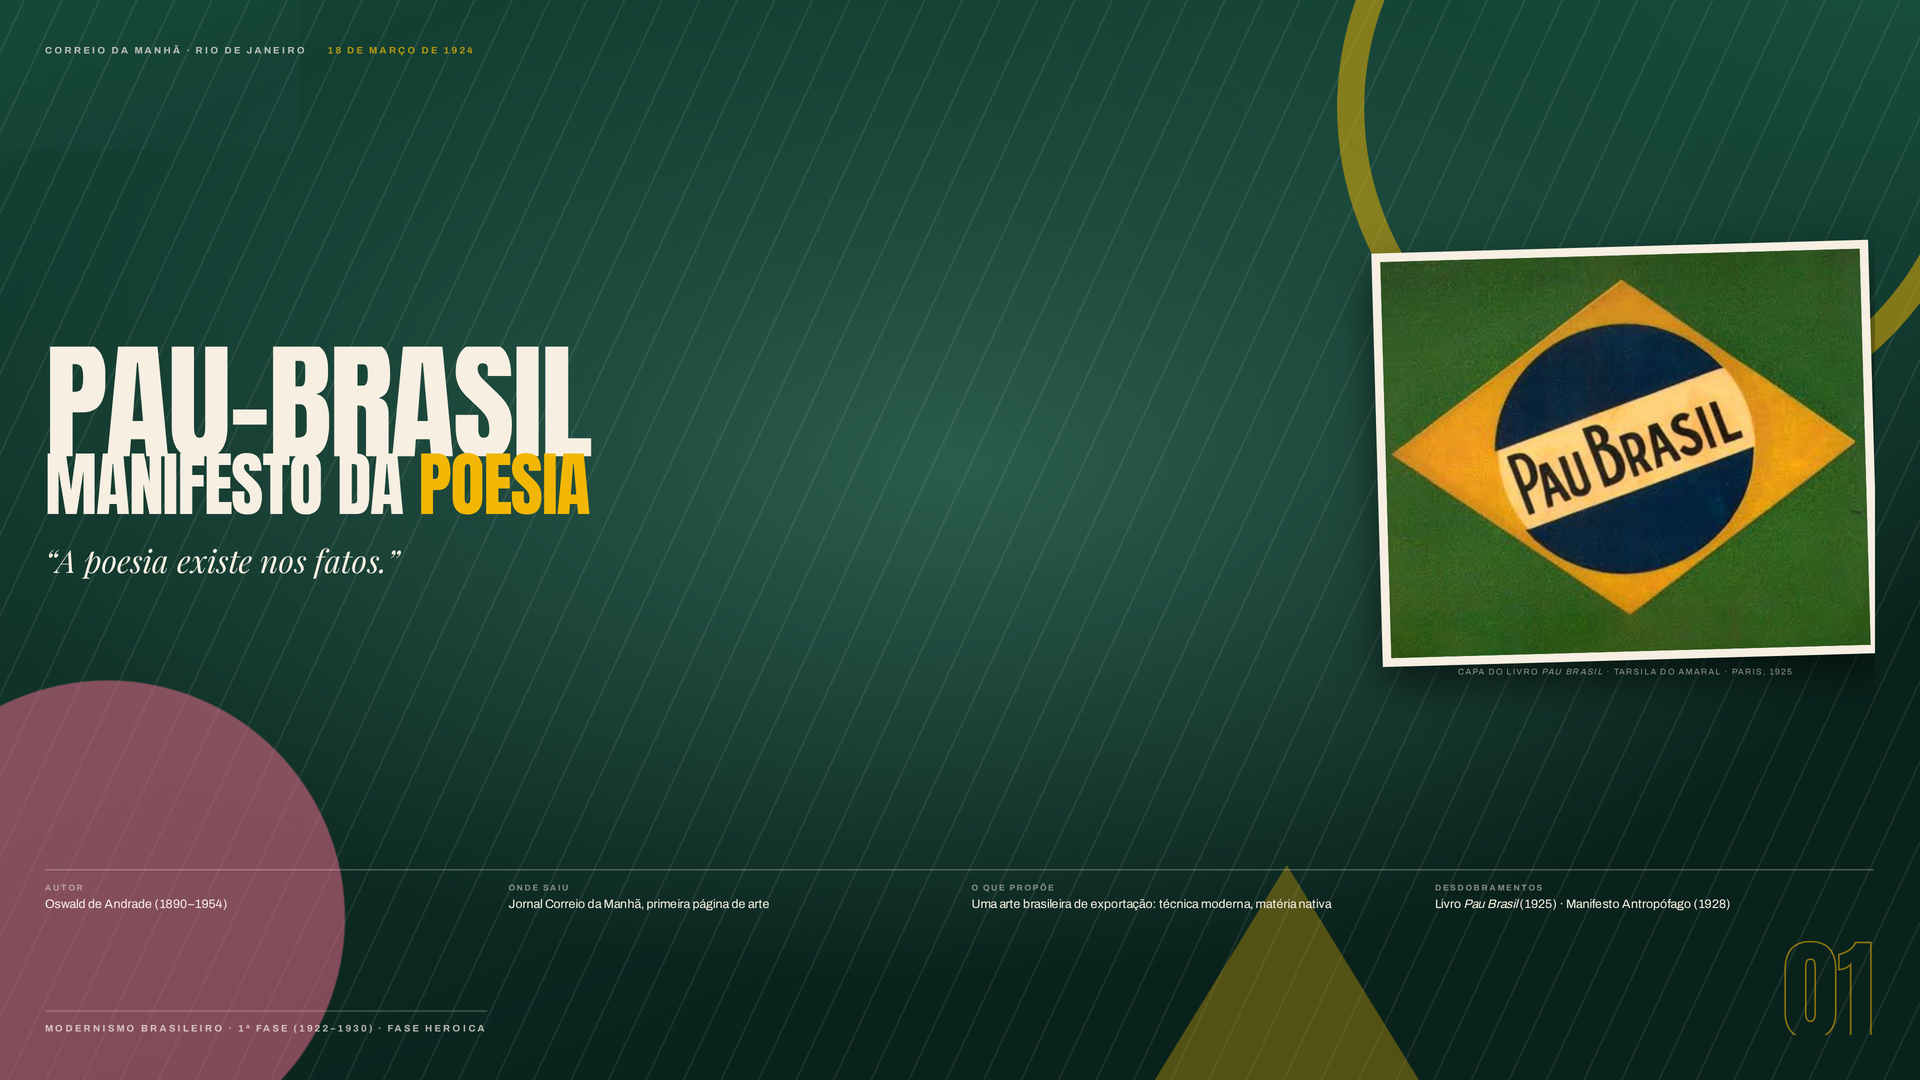
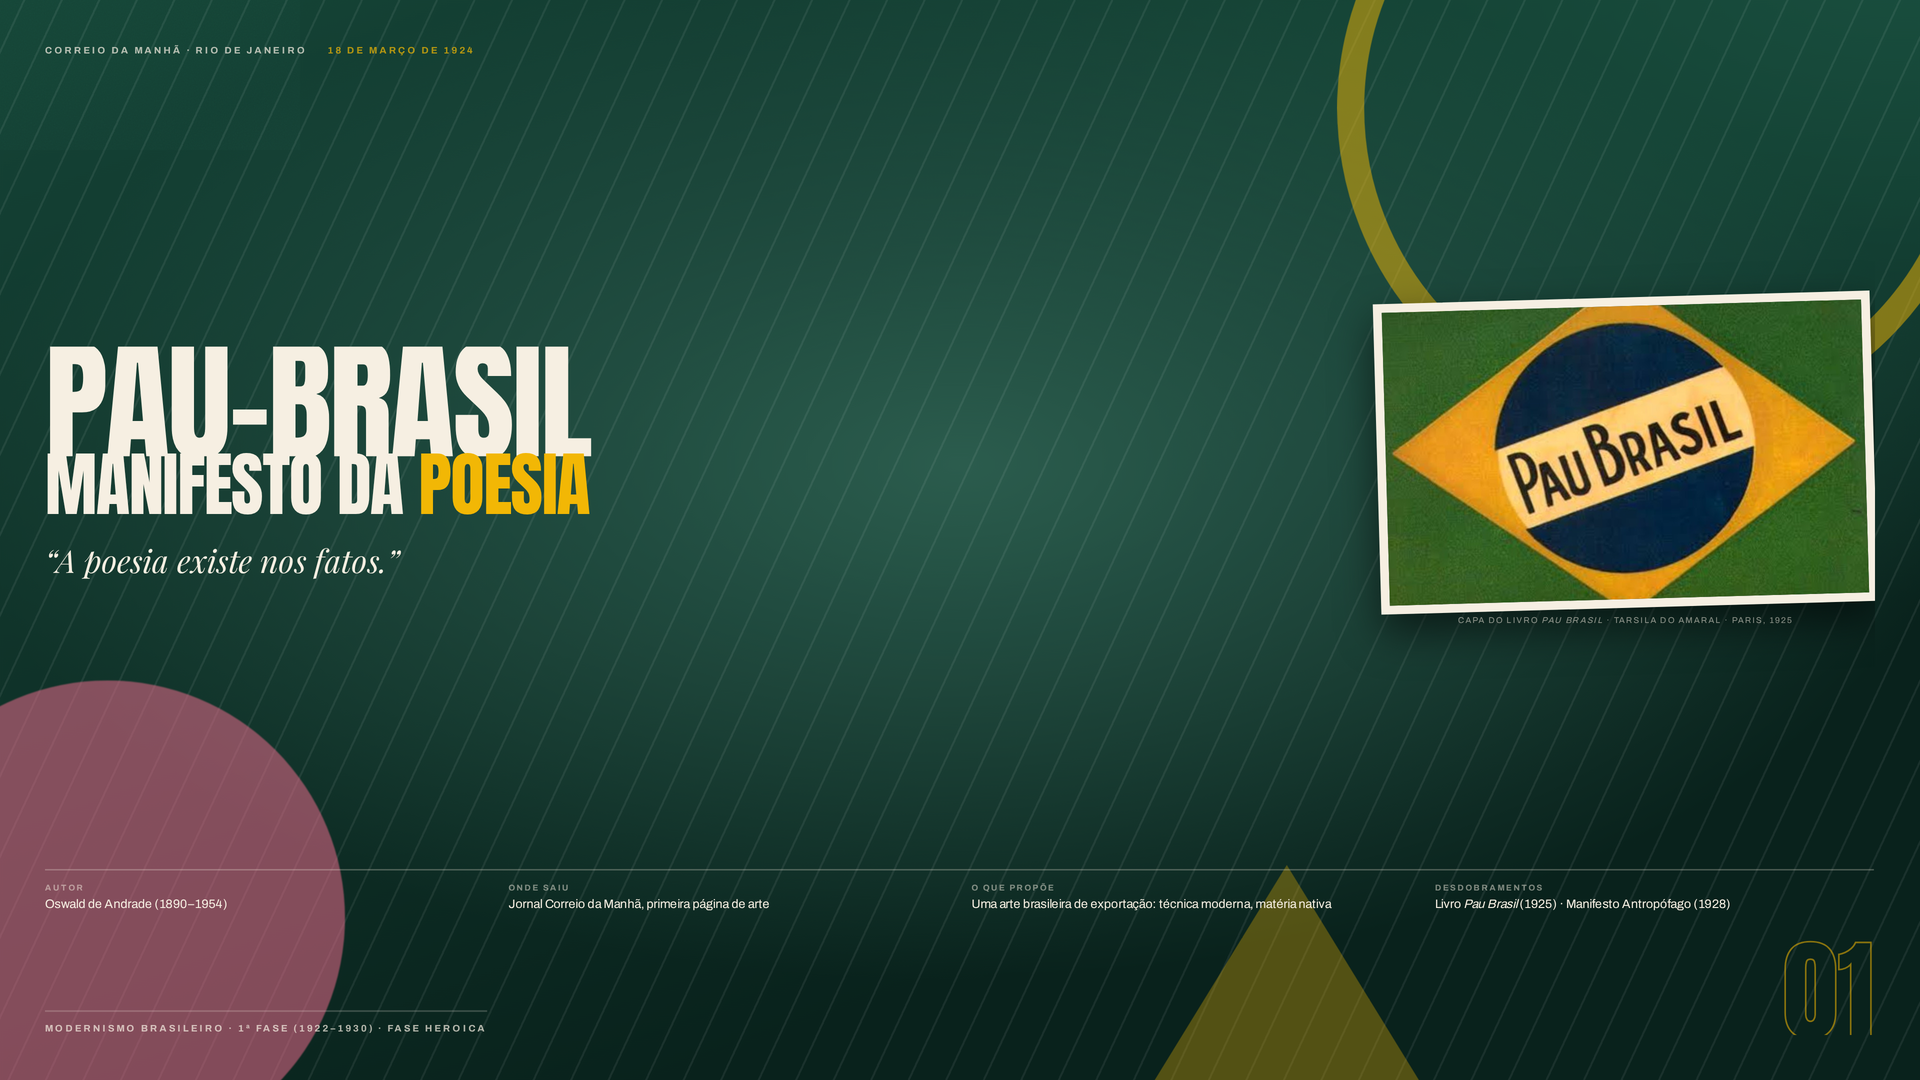
Remove a ilustracao de casas e usa a foto da capa na cena da Tarsila
A releitura geometrica saiu. A cena 6 recebe a foto da capa do livro,
clonada da cena 1 por JS para nao repetir o base64 no arquivo. Na capa
a foto passa a ser enquadrada em close para as duas nao lerem igual.

Claude-Session: https://claude.ai/code/session_01Vs2HGvBuRH71FrhfWbvT4t

diff --git a/pau-brasil.html b/pau-brasil.html
@@ -242,7 +242,7 @@ body{
   grid-template-columns:repeat(4,minmax(0,1fr));gap:clamp(10px,2vw,30px);
   border-top:2px solid color-mix(in srgb,currentColor 26%,transparent);padding-top:clamp(9px,1.6vh,16px)}
 .emblema{align-self:center;justify-self:end;width:min(100%,58vh)}
-.emblema img{display:block;width:100%;height:auto;
+.emblema img{display:block;width:100%;height:auto;aspect-ratio:16/10;object-fit:cover;
   border:clamp(5px,.8vw,11px) solid var(--creme);
   box-shadow:0 22px 52px rgba(0,0,0,.55);
   transform:rotate(-1.6deg);transition:transform .9s cubic-bezier(.22,1,.36,1)}
@@ -273,13 +273,13 @@ body{
   font-size:clamp(9px,.98vw,11.5px);letter-spacing:.18em;text-transform:uppercase;opacity:.55}
 
 /* composicao pintada */
-.tela{position:relative;width:100%;aspect-ratio:5/4;max-height:56vh;margin-inline:auto;
-  border:1px solid color-mix(in srgb,currentColor 26%,transparent);overflow:hidden;
-  background:#e8d9b8}
-.tela svg{display:block;width:100%;height:100%}
-.tela figcaption{position:absolute;left:0;right:0;bottom:0;padding:.75em 1em;
-  background:color-mix(in srgb,#000 62%,transparent);color:var(--creme);
-  font-size:clamp(8.5px,.92vw,11px);letter-spacing:.14em;text-transform:uppercase;opacity:.9}
+.tela{width:fit-content;max-width:100%;margin-inline:auto}
+.tela img{display:block;width:auto;height:auto;max-width:100%;max-height:46vh;
+  border:clamp(5px,.8vw,11px) solid var(--creme);
+  box-shadow:0 22px 52px rgba(0,0,0,.55);transform:rotate(1.2deg)}
+.tela figcaption{margin-top:1.1em;text-align:center;
+  font-size:clamp(8.5px,.92vw,11px);letter-spacing:.16em;text-transform:uppercase;
+  opacity:.55;line-height:1.7}
 
 /* bloco tipografico grande */
 .grito{display:grid;gap:clamp(8px,1.6vh,18px);align-content:center;
@@ -305,7 +305,7 @@ body{
   .m1,.m2,.m3,.m4,.m5{grid-column:1/-1}
   .cartoes{grid-template-columns:minmax(0,1fr)!important}
   .grito .meta{grid-template-columns:minmax(0,1fr)}
-  .tela{max-height:32vh;aspect-ratio:4/3}
+  .tela img{max-height:24vh}
 }
 
 @media (max-width:820px){
@@ -511,50 +511,8 @@ body{
           Em 1925 ela assina a capa do livro <i>Pau Brasil</i>, publicado em Paris.</p>
       </div>
       <div class="rev" style="--d:4">
-        <figure class="tela">
-          <svg viewBox="0 0 500 400" role="img" aria-label="Releitura geométrica da fase Pau-Brasil de Tarsila do Amaral">
-            <rect width="500" height="400" fill="#efe0bd"/>
-            <path d="M0 212 Q90 158 196 196 T330 178 Q412 162 500 196 L500 400 L0 400Z" fill="#1f9d63"/>
-            <path d="M0 268 Q120 226 246 264 T500 246 L500 400 L0 400Z" fill="#12734a"/>
-            <circle cx="404" cy="80" r="44" fill="#f2b705"/>
-            <circle cx="404" cy="80" r="44" fill="none" stroke="#e2571e" stroke-width="5"/>
-            <g>
-              <rect x="40" y="150" width="86" height="118" fill="#2f7fd0"/>
-              <path d="M32 150 L83 108 L134 150Z" fill="#e2571e"/>
-              <rect x="126" y="186" width="66" height="82" fill="#e86a8a"/>
-              <path d="M120 186 L159 156 L198 186Z" fill="#5a2d18"/>
-              <rect x="192" y="214" width="58" height="54" fill="#f2b705"/>
-              <path d="M186 214 L221 190 L256 214Z" fill="#2f7fd0"/>
-              <g fill="#efe0bd">
-                <rect x="60" y="182" width="20" height="26"/><rect x="94" y="182" width="20" height="26"/>
-                <rect x="60" y="226" width="20" height="26"/><rect x="146" y="212" width="18" height="24"/>
-                <rect x="208" y="234" width="16" height="22"/>
-              </g>
-              <rect x="94" y="226" width="22" height="42" fill="#5a2d18"/>
-            </g>
-            <g stroke="#14100c" stroke-width="6">
-              <path d="M306 288 L306 112"/><path d="M370 296 L370 168"/>
-            </g>
-            <g>
-              <rect x="288" y="120" width="36" height="12" fill="#e2571e"/>
-              <circle cx="306" cy="150" r="13" fill="#d12e1f"/>
-              <circle cx="306" cy="182" r="13" fill="#1f9d63"/>
-              <rect x="352" y="176" width="36" height="12" fill="#f2b705"/>
-              <circle cx="370" cy="206" r="11" fill="#e86a8a"/>
-            </g>
-            <g fill="#5a2d18">
-              <path d="M0 330 L500 302 L500 314 L0 342Z"/>
-              <path d="M0 362 L500 334 L500 346 L0 374Z"/>
-            </g>
-            <g fill="#14100c" opacity=".75">
-              <rect x="24" y="330" width="9" height="44"/><rect x="112" y="325" width="9" height="44"/>
-              <rect x="200" y="320" width="9" height="44"/><rect x="288" y="315" width="9" height="44"/>
-              <rect x="376" y="310" width="9" height="44"/><rect x="464" y="305" width="9" height="44"/>
-            </g>
-            <circle cx="452" cy="250" r="18" fill="#e86a8a"/>
-            <rect x="0" y="384" width="500" height="16" fill="#12734a"/>
-          </svg>
-          <figcaption>Releitura geométrica · troque pela reprodução real de “EFCB” (1924)</figcaption>
+        <figure class="tela" id="tela-tarsila">
+          <figcaption>Capa do livro <i>Pau Brasil</i> · Tarsila do Amaral · Paris, 1925</figcaption>
         </figure>
       </div>
     </div>
@@ -666,6 +624,15 @@ body{
   });
   var listaPontos = Array.prototype.slice.call(pontos.children);
 
+
+  // a foto da capa do livro serve as duas cenas; clona em vez de repetir o base64
+  (function(){
+    var orig = document.querySelector('.emblema img'), alvo = document.getElementById('tela-tarsila');
+    if(!orig || !alvo) return;
+    var copia = orig.cloneNode(true);
+    copia.removeAttribute('id');
+    alvo.insertBefore(copia, alvo.firstChild);
+  })();
 
   // rede de seguranca: se a cena nao couber na altura, encolhe proporcionalmente
   function ajusta(cena){
